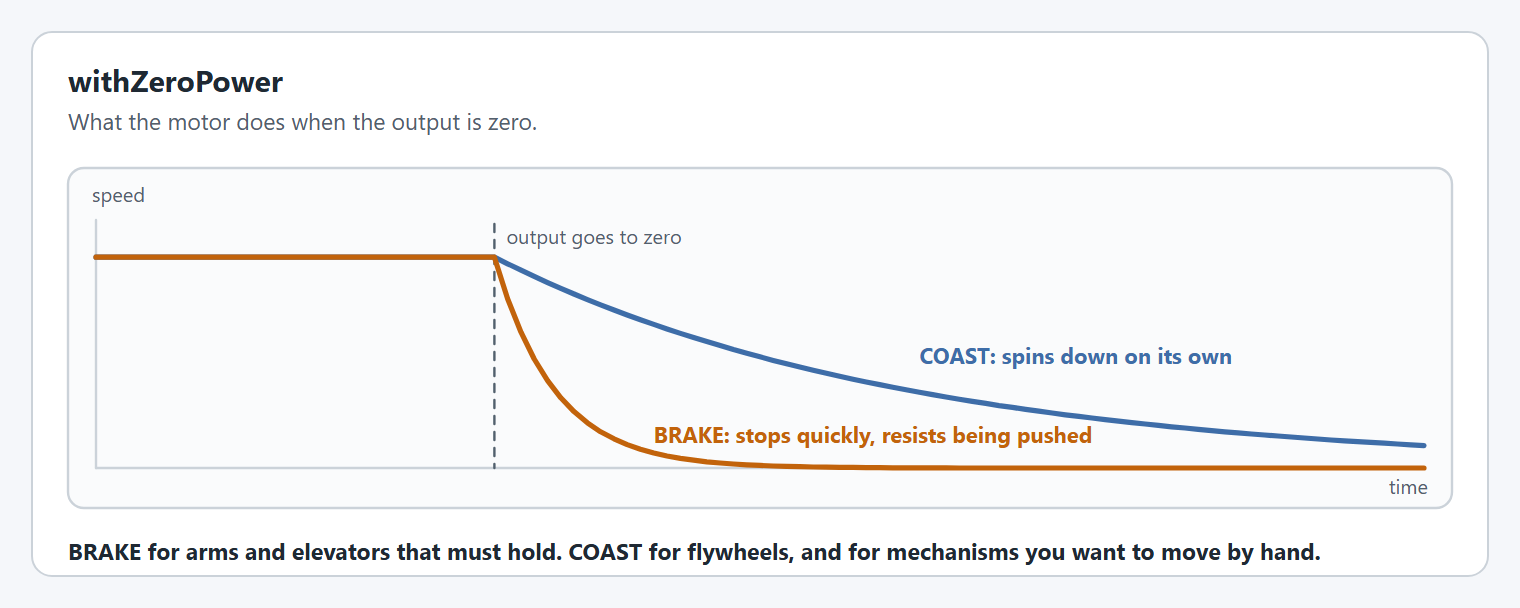
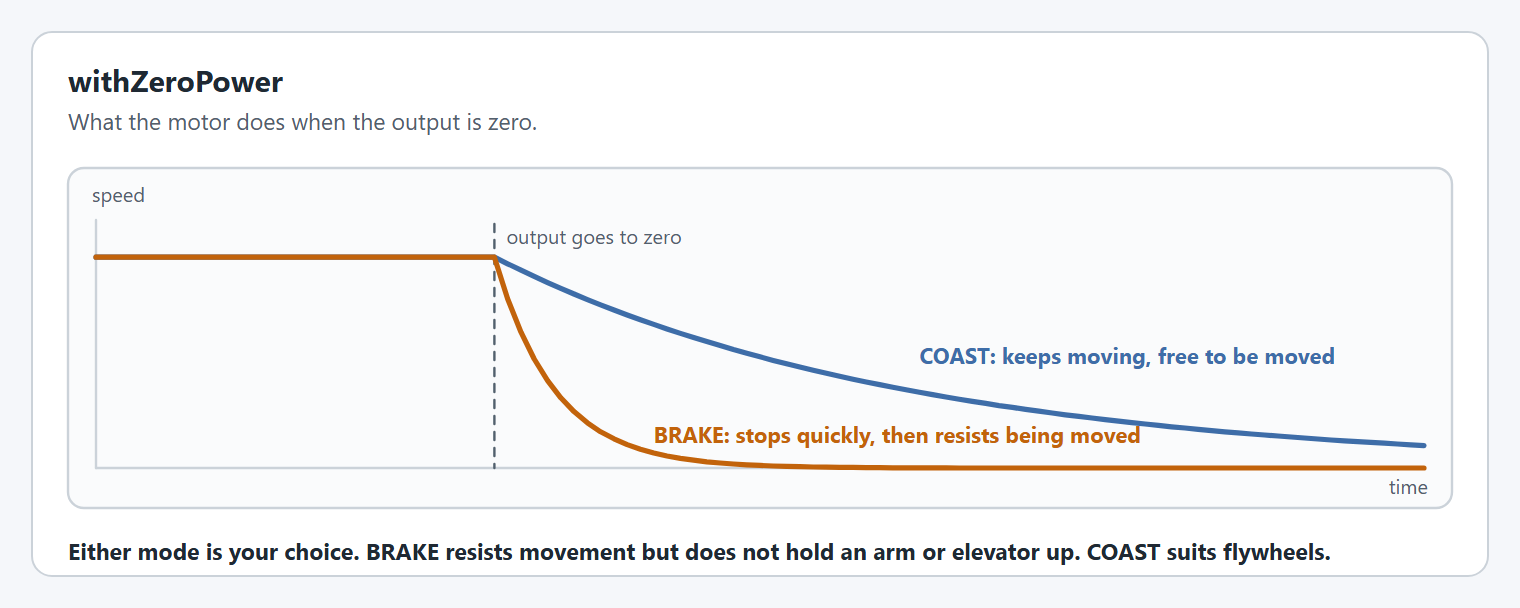
Motor basics: brake mode resists movement and does not hold, with a GIF of each mechanism in brake and coast

Changed region(s): [[0.0309, 0.875, 0.8658, 0.9375], [0.6493, 0.5625, 0.8967, 0.625], [0.5875, 0.6875, 0.7421, 0.75]]

diff --git a/details/editor/config/motor-basics.md b/details/editor/config/motor-basics.md
@@ -43,13 +43,31 @@ Decide it once, with the mechanism free to move and a small voltage, before tuni
 
 Chooses what the motor does when the output is zero: `MotorMode.BRAKE` or `MotorMode.COAST`.
 
-<figure><img src="../../../.gitbook/assets/smc-zero-power.png" alt="A graph of speed against time. When the output goes to zero, a motor in BRAKE mode stops quickly and resists being pushed, and a motor in COAST mode spins down on its own."><figcaption><p>Brake and coast after the output goes to zero.</p></figcaption></figure>
+* **`MotorMode.BRAKE`**: a motor that is not powered resists being moved. It stops quickly, and it is hard to turn by hand.
+* **`MotorMode.COAST`**: a motor that is not powered moves freely. It keeps going until friction stops it, and it turns easily by hand.
+
+<figure><img src="../../../.gitbook/assets/smc-zero-power.png" alt="A graph of speed against time. When the output goes to zero, a motor in BRAKE mode stops quickly and then resists being moved, and a motor in COAST mode keeps moving and is free to be moved. Either mode is your choice. BRAKE resists movement but does not hold an arm or elevator up, and COAST suits flywheels."><figcaption><p>Brake and coast after the output goes to zero.</p></figcaption></figure>
 
 ```java
 .withZeroPower(MotorMode.BRAKE)
 ```
 
-Brake mode resists movement but does not hold a position against gravity: that is the job of the closed loop controller and [`kG`](feedforward.md).
+What that looks like on a mechanism once the output is zero:
+
+<figure><img src="../../../.gitbook/assets/smc-zero-power-mechanisms.gif" alt="Animation of an elevator, an arm, a pivot and a flywheel, each shown in brake mode and in coast mode. All are driven and then the output goes to zero. In brake mode the pivot stops and stays, the flywheel stops quickly, and the elevator and the arm sink slowly. In coast mode the elevator falls to the bottom, the arm falls onto its hard stop, the pivot keeps turning and the flywheel keeps spinning."><figcaption><p>Not powered, a mechanism in brake mode resists movement and a mechanism in coast mode moves freely.</p></figcaption></figure>
+
+| Mechanism | Not powered in `BRAKE` | Not powered in `COAST` |
+| --- | --- | --- |
+| Elevator | Sinks slowly | Falls |
+| Arm | Sinks slowly | Falls |
+| Pivot (turret or wrist) | Stops and stays where it is | Keeps turning, and moves when bumped |
+| Flywheel | Stops quickly | Keeps spinning and slows down on its own |
+
+With nothing pulling on it, a mechanism in brake mode does not move while it is not powered, and the same mechanism in coast mode does. Gravity is something pulling on it, so most arms and elevators still sink in brake mode, only slower than they fall in coast mode.
+
+{% hint style="info" %}
+**Brake mode is an option, not a requirement, and it is not how a mechanism holds its position.** An arm or an elevator does not need brake mode to hold: the closed loop controller and [`kG`](feedforward.md) hold it, in either mode, for as long as it is powered. Brake mode only changes what happens when it is not, such as when the robot is disabled.
+{% endhint %}
 
 **Supported on:** every supported motor controller.
 
